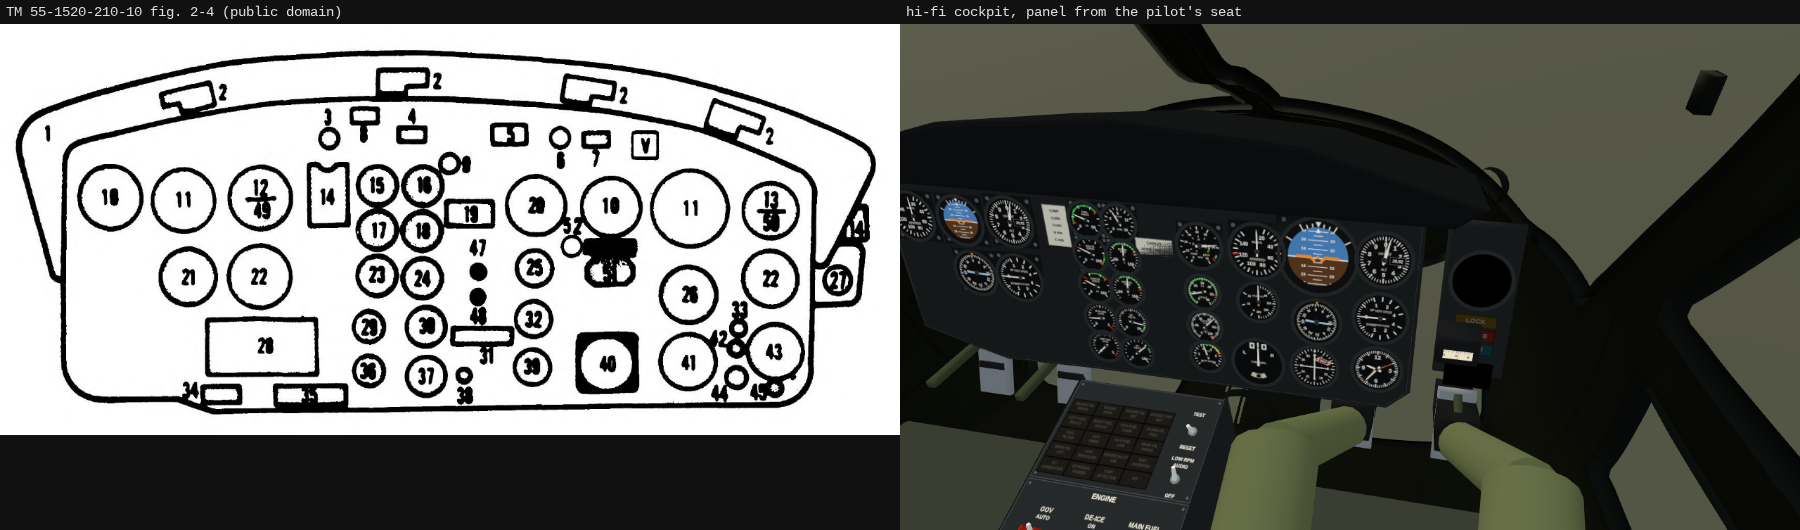
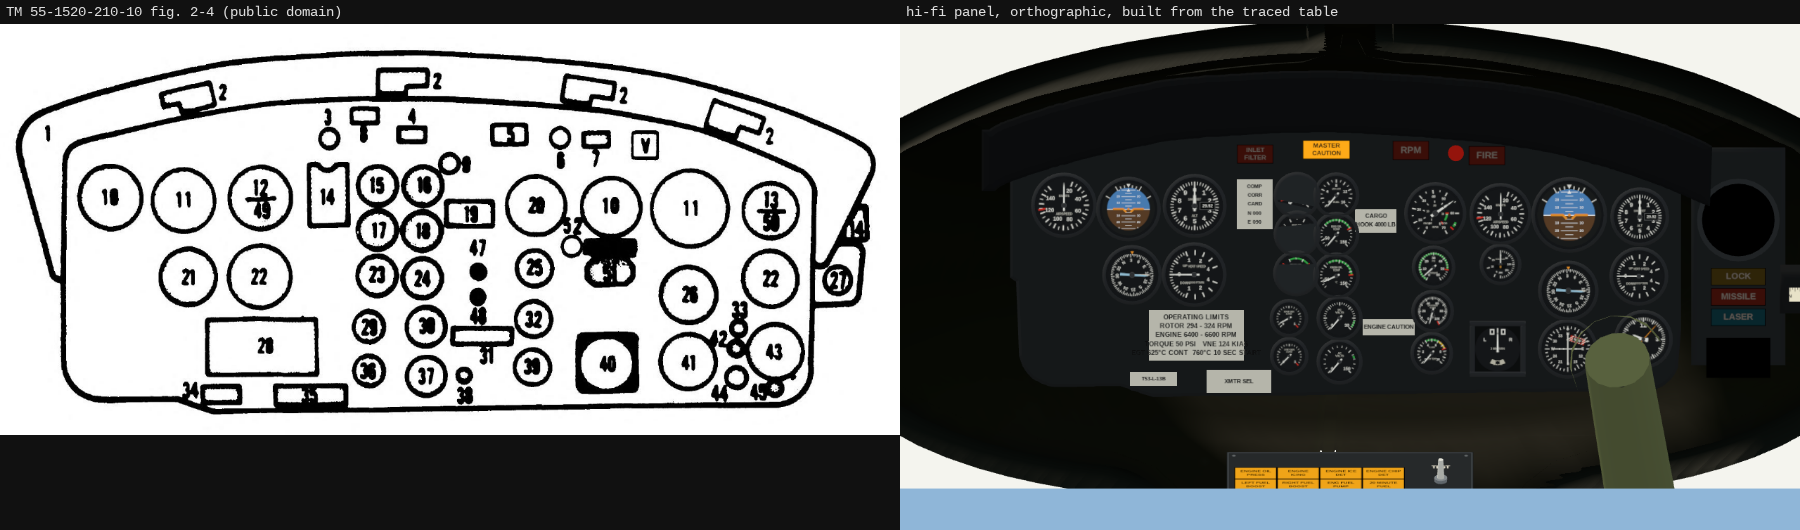
look-huey cockpit: instrument panel built from a traced table of TM -10 fig. 2-4 (tools/hueypanel.mjs -> uh1panel.json: 41 legend items fitted as rings / boxes on the page, scale from the 3ATI airspeed bezel, glare shield top edge per column); face extruded with a bezel hole per instrument, recessed

Changed region(s): [[0.4978, 0.0, 1.0, 1.0]]

diff --git a/game/js/uh1panel.js b/game/js/uh1panel.js
@@ -1,0 +1,2 @@
+// generated by tools/hueypanel.mjs from TM 55-1520-210-10 fig. 2-4 (public domain); see uh1panel.json
+export const UH1_PANEL = {"source":"TM 55-1520-210-10 (HQ DA, 1988, change 7) fig. 2-4 Instrument panel (typical), public domain; traced by tools/hueypanel.mjs","units":"panel millimetres: x right (pilot side), y up; origin on the panel centre line at the second instrument row","scale":{"pxPerMm":1.6126,"from":"item 10 copilot airspeed indicator = 3ATI, 79.4 mm bezel"},"items":[{"n":10,"name":"Airspeed indicator (copilot)","id":"asi2","shape":"r","x":-394.1,"y":70.1,"w":79.4,"h":79.4,"fit":1},{"n":11,"name":"Attitude indicator (copilot)","id":"adi2","shape":"r","x":-305.3,"y":65.1,"w":78.1,"h":78.1,"fit":1},{"n":12,"name":"Altimeter AAU-32/A (copilot)","id":"alt2","shape":"r","x":-214.1,"y":69.4,"w":76.9,"h":76.9,"fit":1},{"n":21,"name":"Radio compass indicator (copilot)","id":"rmi2","shape":"r","x":-300.2,"y":-25.7,"w":70.7,"h":70.7,"fit":1},{"n":22,"name":"Vertical velocity indicator (copilot)","id":"vsi2","shape":"r","x":-214.7,"y":-25.3,"w":78.1,"h":78.1,"fit":1},{"n":15,"name":"Fuel pressure","id":"fp","shape":"r","x":-72.9,"y":83.8,"w":52.1,"h":52.1,"fit":1},{"n":16,"name":"Fuel quantity","id":"fuel","shape":"r","x":-18.9,"y":83.8,"w":50.8,"h":50.8,"fit":1},{"n":17,"name":"Engine oil pressure","id":"eop","shape":"r","x":-72.9,"y":30.8,"w":52.1,"h":52.1,"fit":1},{"n":18,"name":"Engine oil temperature","id":"eot","shape":"r","x":-18.9,"y":29.6,"w":50.8,"h":50.8,"fit":1},{"n":23,"name":"Transmission oil pressure","id":"xop","shape":"r","x":-74.2,"y":-23.4,"w":50.8,"h":50.8,"fit":1},{"n":24,"name":"Transmission oil temperature","id":"xot","shape":"r","x":-18.9,"y":-27.1,"w":52.1,"h":52.1,"fit":1},{"n":29,"name":"Main generator loadmeter","id":"load","shape":"r","x":-84.1,"y":-85.3,"w":39.7,"h":39.7,"fit":1},{"n":30,"name":"DC voltmeter","id":"dcv","shape":"r","x":-14.4,"y":-85.3,"w":50.8,"h":50.8,"fit":1},{"n":36,"name":"Standby generator loadmeter","id":"sload","shape":"r","x":-83.7,"y":-137.7,"w":39.7,"h":39.7,"fit":1},{"n":37,"name":"AC voltmeter","id":"acv","shape":"r","x":-14.4,"y":-145.1,"w":50.8,"h":50.8,"fit":1},{"n":20,"name":"Dual tachometer","id":"tach","shape":"r","x":117.5,"y":59.2,"w":74.4,"h":74.4,"fit":1},{"n":25,"name":"Torquemeter","id":"tq","shape":"r","x":115.1,"y":-15.2,"w":47.1,"h":47.1,"fit":1},{"n":32,"name":"Gas producer tachometer","id":"n1","shape":"r","x":113.8,"y":-75.8,"w":45.9,"h":45.9,"fit":1},{"n":39,"name":"Exhaust gas temperature","id":"egt","shape":"r","x":112.6,"y":-133.6,"w":45.9,"h":45.9,"fit":1},{"n":10,"name":"Airspeed indicator (pilot)","id":"asi","shape":"r","x":207.5,"y":58.1,"w":74.4,"h":74.4,"fit":1},{"n":11,"name":"Attitude indicator (pilot)","id":"adi","shape":"r","x":302.1,"y":56.9,"w":94.3,"h":94.3,"fit":1},{"n":13,"name":"Altimeter AAU-31/A (pilot)","id":"alt","shape":"r","x":399.2,"y":54.4,"w":69.5,"h":69.5,"fit":1},{"n":26,"name":"Radio compass indicator (pilot)","id":"rmi","shape":"r","x":300.8,"y":-47.5,"w":71.9,"h":71.9,"fit":1},{"n":22,"name":"Vertical velocity indicator (pilot)","id":"vsi","shape":"r","x":398,"y":-27.5,"w":69.5,"h":69.5,"fit":1},{"n":40,"name":"Turn and slip indicator","id":"ts","shape":"s","x":203.4,"y":-127.6,"w":69.5,"h":67,"fit":1.03},{"n":41,"name":"Course deviation indicator","id":"cdi","shape":"r","x":300,"y":-127.6,"w":70.7,"h":70.7,"fit":1},{"n":43,"name":"Clock","id":"clk","shape":"r","x":404.2,"y":-114.4,"w":69.5,"h":69.5,"fit":1},{"n":51,"name":"DME indicator (V) - radar altimeter in the H","id":"ralt","shape":"b","x":207.4,"y":-11.1,"w":49.6,"h":44.6,"fit":1.02},{"n":28,"name":"Operating limits decal","id":null,"shape":"b","x":-211.6,"y":-108.9,"w":131.5,"h":69.5,"fit":1.05},{"n":14,"name":"Compass correction card holder","id":null,"shape":"b","x":-131.5,"y":71.5,"w":49.6,"h":69.5,"fit":0.98},{"n":19,"name":"Cargo caution decal","id":null,"shape":"b","x":35.5,"y":48.9,"w":57.1,"h":32.2,"fit":1.02},{"n":31,"name":"Engine caution decal","id":null,"shape":"b","x":53.4,"y":-97.6,"w":71.9,"h":22.3,"fit":1.02},{"n":34,"name":"Engine installation decal","id":null,"shape":"b","x":-270.9,"y":-168.9,"w":64.5,"h":19.8,"fit":1.02},{"n":35,"name":"Transmitter selector decal","id":null,"shape":"b","x":-152.7,"y":-172.4,"w":89.3,"h":32.2,"fit":1.03},{"n":3,"name":"Engine inlet filter clogged light","id":"L3","shape":"r","x":-130.7,"y":140.8,"w":26,"h":26,"fit":1},{"n":4,"name":"Master caution","id":"L4","shape":"b","x":-32.5,"y":146.9,"w":34.7,"h":17.4,"fit":1.01},{"n":5,"name":"RPM warning light","id":"L5","shape":"b","x":83.8,"y":145.9,"w":39.7,"h":24.8,"fit":1.02},{"n":6,"name":"Fire detector test switch","id":"L6","shape":"r","x":145.9,"y":142,"w":26,"h":26,"fit":1},{"n":7,"name":"Fire warning light","id":"L7","shape":"b","x":188.6,"y":138.7,"w":32.2,"h":19.8,"fit":1.01},{"n":27,"name":"Magnetic compass","id":"L27","shape":"r","x":470.1,"y":-37,"w":48.4,"h":48.4,"fit":0.89}],"outline":[{"x":-501.4,"shieldTop":154.1,"faceTop":100.7,"bottom":99.8},{"x":-497.3,"shieldTop":159,"faceTop":100.7,"bottom":88},{"x":-493.1,"shieldTop":164.6,"faceTop":152.2,"bottom":71.3},{"x":-489,"shieldTop":168.3,"faceTop":158.4,"bottom":56.4},{"x":-484.9,"shieldTop":170.8,"faceTop":161.5,"bottom":43.4},{"x":-480.8,"shieldTop":172.7,"faceTop":164.6,"bottom":29.1},{"x":-476.7,"shieldTop":175.2,"faceTop":167,"bottom":13},{"x":-472.6,"shieldTop":176.4,"faceTop":168.9,"bottom":-2.5},{"x":-468.5,"shieldTop":178.3,"faceTop":136.7,"bottom":-17.4},{"x":-464.4,"shieldTop":179.5,"faceTop":172,"bottom":-27.3},{"x":-460.3,"shieldTop":180.7,"faceTop":173.9,"bottom":-30.4},{"x":-456.2,"shieldTop":182.6,"faceTop":175.1,"bottom":-32.3},{"x":-452,"shieldTop":183.8,"faceTop":176.3,"bottom":-136.5},{"x":-447.9,"shieldTop":185.7,"faceTop":100.7,"bottom":-148.9},{"x":-443.8,"shieldTop":186.9,"faceTop":119.3,"bottom":-155.7},{"x":-439.7,"shieldTop":188.2,"faceTop":126.1,"bottom":-160.6},{"x":-435.6,"shieldTop":189.4,"faceTop":129.2,"bottom":-165},{"x":-431.5,"shieldTop":190.7,"faceTop":131.7,"bottom":-167.5},{"x":-427.4,"shieldTop":191.9,"faceTop":132.9,"bottom":-169.3},{"x":-423.3,"shieldTop":193.1,"faceTop":134.2,"bottom":-171.8},{"x":-419.2,"shieldTop":194.4,"faceTop":100.7,"bottom":-173},{"x":-415.1,"shieldTop":196.3,"faceTop":100.7,"bottom":-174.9},{"x":-411,"shieldTop":197.5,"faceTop":100.7,"bottom":-175.5},{"x":-406.8,"shieldTop":198.1,"faceTop":101.9,"bottom":-176.1},{"x":-402.7,"shieldTop":200,"faceTop":102.5,"bottom":-176.1},{"x":-398.6,"shieldTop":201.2,"faceTop":104.4,"bottom":-176.1},{"x":-394.5,"shieldTop":201.2,"faceTop":104.4,"bottom":-176.8},{"x":-390.4,"shieldTop":202.5,"faceTop":104.4,"bottom":-176.8},{"x":-386.3,"shieldTop":203.7,"faceTop":104.4,"bottom":-176.1},{"x":-382.2,"shieldTop":205.6,"faceTop":103.2,"bottom":-176.1},{"x":-378.1,"shieldTop":206.2,"faceTop":101.3,"bottom":-176.1},{"x":-374,"shieldTop":207.4,"faceTop":100.7,"bottom":-175.5},{"x":-369.9,"shieldTop":208.7,"faceTop":100.7,"bottom":-175.5},{"x":-365.7,"shieldTop":209.3,"faceTop":148.4,"bottom":-175.5},{"x":-361.6,"shieldTop":210.5,"faceTop":149.7,"bottom":-175.5},{"x":-357.5,"shieldTop":211.8,"faceTop":150.9,"bottom":-175.5},{"x":-353.4,"shieldTop":212.4,"faceTop":151.5,"bottom":-174.9},{"x":-349.3,"shieldTop":213.6,"faceTop":152.8,"bottom":-175.5},{"x":-345.2,"shieldTop":214.2,"faceTop":154,"bottom":-174.9},{"x":-341.1,"shieldTop":215.5,"faceTop":154.6,"bottom":-174.9},{"x":-337,"shieldTop":216.7,"faceTop":155.9,"bottom":-174.9},{"x":-332.9,"shieldTop":217.3,"faceTop":156.5,"bottom":-174.9},{"x":-328.8,"shieldTop":218,"faceTop":157.7,"bottom":-174.9},{"x":-324.7,"shieldTop":219.2,"faceTop":100.7,"bottom":-174.9},{"x":-320.5,"shieldTop":219.8,"faceTop":100.7,"bottom":-174.9},{"x":-316.4,"shieldTop":221.1,"faceTop":100.7,"bottom":-174.9},{"x":-312.3,"shieldTop":221.7,"faceTop":100.7,"bottom":-176.1},{"x":-308.2,"shieldTop":222.9,"faceTop":101.3,"bottom":-177.4},{"x":-304.1,"shieldTop":223.5,"faceTop":100.7,"bottom":-178.6},{"x":-300,"shieldTop":224.8,"faceTop":100.7,"bottom":-181.1},{"x":-295.9,"shieldTop":225.4,"faceTop":100.7,"bottom":-181.7},{"x":-291.8,"shieldTop":226,"faceTop":100.7,"bottom":-183},{"x":-287.7,"shieldTop":227.3,"faceTop":100.7,"bottom":-184.8},{"x":-283.6,"shieldTop":227.3,"faceTop":166.4,"bottom":-186.1},{"x":-279.4,"shieldTop":228.5,"faceTop":167,"bottom":-187.3},{"x":-275.3,"shieldTop":229.1,"faceTop":167.7,"bottom":-188.5},{"x":-271.2,"shieldTop":230.4,"faceTop":168.3,"bottom":-189.8},{"x":-267.1,"shieldTop":231.6,"faceTop":169.5,"bottom":-189.8},{"x":-263,"shieldTop":232.2,"faceTop":170.1,"bottom":-189.8},{"x":-258.9,"shieldTop":232.8,"faceTop":170.8,"bottom":-189.8},{"x":-254.8,"shieldTop":233.5,"faceTop":171.4,"bottom":-189.8},{"x":-250.7,"shieldTop":234.1,"faceTop":172,"bottom":-189.8},{"x":-246.6,"shieldTop":234.7,"faceTop":172.6,"bottom":-189.8},{"x":-242.5,"shieldTop":234.7,"faceTop":173.2,"bottom":-189.2},{"x":-238.4,"shieldTop":235.3,"faceTop":174.5,"bottom":-189.2},{"x":-234.2,"shieldTop":235.9,"faceTop":100.7,"bottom":-188.5},{"x":-230.1,"shieldTop":235.9,"faceTop":100.7,"bottom":-189.2},{"x":-226,"shieldTop":236.6,"faceTop":101.9,"bottom":-188.5},{"x":-221.9,"shieldTop":237.2,"faceTop":101.9,"bottom":-188.5},{"x":-217.8,"shieldTop":237.2,"faceTop":103.8,"bottom":-188.5},{"x":-213.7,"shieldTop":237.8,"faceTop":104.4,"bottom":-187.9},{"x":-209.6,"shieldTop":237.8,"faceTop":103.8,"bottom":-188.5},{"x":-205.5,"shieldTop":238.4,"faceTop":102.5,"bottom":-188.5},{"x":-201.4,"shieldTop":239,"faceTop":101.3,"bottom":-187.9},{"x":-197.3,"shieldTop":239.7,"faceTop":100.7,"bottom":-187.9},{"x":-193.1,"shieldTop":239.7,"faceTop":100.7,"bottom":-187.9},{"x":-189,"shieldTop":239.7,"faceTop":180.7,"bottom":-187.9},{"x":-184.9,"shieldTop":239.7,"faceTop":180.7,"bottom":-188.5},{"x":-180.8,"shieldTop":239.7,"faceTop":180.7,"bottom":-188.5},{"x":-176.7,"shieldTop":240.3,"faceTop":180.7,"bottom":-188.5},{"x":-172.6,"shieldTop":240.3,"faceTop":181.3,"bottom":-188.5},{"x":-168.5,"shieldTop":240.9,"faceTop":181.3,"bottom":-188.5},{"x":-164.4,"shieldTop":241.5,"faceTop":181.9,"bottom":-187.9},{"x":-160.3,"shieldTop":241.5,"faceTop":182.5,"bottom":-187.9},{"x":-156.2,"shieldTop":241.5,"faceTop":100.7,"bottom":-187.9},{"x":-152.1,"shieldTop":241.5,"faceTop":105.6,"bottom":-187.9},{"x":-147.9,"shieldTop":242.1,"faceTop":106.3,"bottom":-187.9},{"x":-143.8,"shieldTop":242.1,"faceTop":103.2,"bottom":-187.9},{"x":-139.7,"shieldTop":242.8,"faceTop":100.7,"bottom":-187.9},{"x":-135.6,"shieldTop":242.8,"faceTop":100.7,"bottom":-187.9},{"x":-131.5,"shieldTop":243.4,"faceTop":100.7,"bottom":-188.5},{"x":-127.4,"shieldTop":243.4,"faceTop":100.7,"bottom":-187.9},{"x":-123.3,"shieldTop":243.4,"faceTop":103.8,"bottom":-187.9},{"x":-119.2,"shieldTop":244,"faceTop":106.3,"bottom":-187.9},{"x":-115.1,"shieldTop":244,"faceTop":106.3,"bottom":-187.9},{"x":-111,"shieldTop":244.6,"faceTop":100.7,"bottom":-187.9},{"x":-106.8,"shieldTop":244.6,"faceTop":100.7,"bottom":-187.9},{"x":-102.7,"shieldTop":244.6,"faceTop":156.5,"bottom":-187.9},{"x":-98.6,"shieldTop":244.6,"faceTop":156.5,"bottom":-187.9},{"x":-94.5,"shieldTop":245.2,"faceTop":156.5,"bottom":-187.9},{"x":-90.4,"shieldTop":245.2,"faceTop":100.7,"bottom":-187.9},{"x":-86.3,"shieldTop":245.2,"faceTop":100.7,"bottom":-187.9},{"x":-82.2,"shieldTop":245.2,"faceTop":101.9,"bottom":-187.9},{"x":-78.1,"shieldTop":245.2,"faceTop":103.2,"bottom":-187.9},{"x":-74,"shieldTop":245.2,"faceTop":103.8,"bottom":-187.9},{"x":-69.9,"shieldTop":245.2,"faceTop":103.8,"bottom":-187.9},{"x":-65.8,"shieldTop":245.2,"faceTop":102.5,"bottom":-187.9},{"x":-61.6,"shieldTop":245.2,"faceTop":100.7,"bottom":-187.9},{"x":-57.5,"shieldTop":245.2,"faceTop":100.7,"bottom":-187.3},{"x":-53.4,"shieldTop":245.9,"faceTop":100.7,"bottom":-187.3},{"x":-49.3,"shieldTop":245.9,"faceTop":134.8,"bottom":-187.3},{"x":-45.2,"shieldTop":245.9,"faceTop":133.5,"bottom":-187.3},{"x":-41.1,"shieldTop":245.9,"faceTop":133.5,"bottom":-187.3},{"x":-37,"shieldTop":245.9,"faceTop":100.7,"bottom":-187.3},{"x":-32.9,"shieldTop":245.9,"faceTop":100.7,"bottom":-186.7},{"x":-28.8,"shieldTop":245.9,"faceTop":101.3,"bottom":-186.7},{"x":-24.7,"shieldTop":245.9,"faceTop":101.9,"bottom":-186.7},{"x":-20.5,"shieldTop":245.9,"faceTop":103.8,"bottom":-186.7},{"x":-16.4,"shieldTop":245.2,"faceTop":103.8,"bottom":-186.1},{"x":-12.3,"shieldTop":245.2,"faceTop":102.5,"bottom":-186.1},{"x":-8.2,"shieldTop":245.2,"faceTop":100.7,"bottom":-186.7},{"x":-4.1,"shieldTop":245.2,"faceTop":100.7,"bottom":-186.1},{"x":0,"shieldTop":245.2,"faceTop":100.7,"bottom":-186.1},{"x":4.1,"shieldTop":244.6,"faceTop":100.7,"bottom":-186.1},{"x":8.2,"shieldTop":244.6,"faceTop":100.7,"bottom":-186.7},{"x":12.3,"shieldTop":244.6,"faceTop":100.7,"bottom":-186.1},{"x":16.4,"shieldTop":244.6,"faceTop":100.7,"bottom":-186.1},{"x":20.5,"shieldTop":244,"faceTop":100.7,"bottom":-186.1},{"x":24.7,"shieldTop":243.4,"faceTop":101.9,"bottom":-186.1},{"x":28.8,"shieldTop":243.4,"faceTop":101.3,"bottom":-186.1},{"x":32.9,"shieldTop":243.4,"faceTop":100.7,"bottom":-186.1},{"x":37,"shieldTop":242.8,"faceTop":100.7,"bottom":-186.7},{"x":41.1,"shieldTop":242.8,"faceTop":182.5,"bottom":-186.1},{"x":45.2,"shieldTop":242.1,"faceTop":182.5,"bottom":-186.1},{"x":49.3,"shieldTop":242.1,"faceTop":181.9,"bottom":-186.1},{"x":53.4,"shieldTop":242.1,"faceTop":181.9,"bottom":-186.1},{"x":57.5,"shieldTop":241.5,"faceTop":181.3,"bottom":-186.1},{"x":61.6,"shieldTop":241.5,"faceTop":150.9,"bottom":-185.4},{"x":65.8,"shieldTop":241.5,"faceTop":131.1,"bottom":-185.4},{"x":69.9,"shieldTop":240.9,"faceTop":130.4,"bottom":-185.4},{"x":74,"shieldTop":240.9,"faceTop":130.4,"bottom":-185.4},{"x":78.1,"shieldTop":240.9,"faceTop":131.1,"bottom":-185.4},{"x":82.2,"shieldTop":240.3,"faceTop":130.4,"bottom":-185.4},{"x":86.3,"shieldTop":239.7,"faceTop":131.1,"bottom":-185.4},{"x":90.4,"shieldTop":239.7,"faceTop":130.4,"bottom":-185.4},{"x":94.5,"shieldTop":239.7,"faceTop":130.4,"bottom":-184.8},{"x":98.6,"shieldTop":239.7,"faceTop":131.1,"bottom":-184.8},{"x":102.7,"shieldTop":239,"faceTop":131.1,"bottom":-184.8},{"x":106.8,"shieldTop":238.4,"faceTop":131.7,"bottom":-184.8},{"x":111,"shieldTop":238.4,"faceTop":178.2,"bottom":-184.2},{"x":115.1,"shieldTop":237.8,"faceTop":178.2,"bottom":-184.8},{"x":119.2,"shieldTop":237.8,"faceTop":177.6,"bottom":-184.2},{"x":123.3,"shieldTop":237.8,"faceTop":177.6,"bottom":-184.2},{"x":127.4,"shieldTop":236.6,"faceTop":177,"bottom":-184.8},{"x":131.5,"shieldTop":235.9,"faceTop":177,"bottom":-184.2},{"x":135.6,"shieldTop":235.9,"faceTop":132.3,"bottom":-184.2},{"x":139.7,"shieldTop":235.9,"faceTop":128.6,"bottom":-184.2},{"x":143.8,"shieldTop":235.3,"faceTop":105,"bottom":-184.2},{"x":147.9,"shieldTop":234.7,"faceTop":103.8,"bottom":-184.2},{"x":152.1,"shieldTop":234.7,"faceTop":128.6,"bottom":-184.2},{"x":156.2,"shieldTop":234.7,"faceTop":131.7,"bottom":-184.2},{"x":160.3,"shieldTop":234.1,"faceTop":173.9,"bottom":-184.2},{"x":164.4,"shieldTop":233.5,"faceTop":173.2,"bottom":-184.2},{"x":168.5,"shieldTop":233.5,"faceTop":173.2,"bottom":-184.2},{"x":172.6,"shieldTop":232.8,"faceTop":129.8,"bottom":-184.2},{"x":176.7,"shieldTop":232.8,"faceTop":128,"bottom":-183.6},{"x":180.8,"shieldTop":232.2,"faceTop":128,"bottom":-183.6},{"x":184.9,"shieldTop":231.6,"faceTop":123,"bottom":-183.6},{"x":189,"shieldTop":231.6,"faceTop":107.5,"bottom":-228.9},{"x":193.1,"shieldTop":231,"faceTop":121.1,"bottom":-183.6},{"x":197.3,"shieldTop":230.4,"faceTop":128,"bottom":-183.6},{"x":201.4,"shieldTop":229.7,"faceTop":128.6,"bottom":-183.6},{"x":205.5,"shieldTop":229.1,"faceTop":129.2,"bottom":-183.6},{"x":209.6,"shieldTop":229.1,"faceTop":168.9,"bottom":-183},{"x":213.7,"shieldTop":227.9,"faceTop":167.7,"bottom":-183},{"x":217.8,"shieldTop":227.3,"faceTop":167,"bottom":-183},{"x":221.9,"shieldTop":227.3,"faceTop":166.4,"bottom":-182.3},{"x":226,"shieldTop":226,"faceTop":165.8,"bottom":-182.3},{"x":230.1,"shieldTop":226,"faceTop":165.2,"bottom":-182.3},{"x":234.2,"shieldTop":224.8,"faceTop":114.9,"bottom":-183},{"x":238.4,"shieldTop":224.2,"faceTop":114.9,"bottom":-183},{"x":242.5,"shieldTop":224.2,"faceTop":114.9,"bottom":-183},{"x":246.6,"shieldTop":223.5,"faceTop":114.9,"bottom":-183},{"x":250.7,"shieldTop":222.3,"faceTop":114.9,"bottom":-183},{"x":254.8,"shieldTop":221.7,"faceTop":114.9,"bottom":-183},{"x":258.9,"shieldTop":221.1,"faceTop":114.9,"bottom":-183},{"x":263,"shieldTop":220.4,"faceTop":114.9,"bottom":-182.3},{"x":267.1,"shieldTop":219.2,"faceTop":158.4,"bottom":-183},{"x":271.2,"shieldTop":218.6,"faceTop":157.1,"bottom":-182.3},{"x":275.3,"shieldTop":218,"faceTop":156.5,"bottom":-183},{"x":279.4,"shieldTop":217.3,"faceTop":155.9,"bottom":-182.3},{"x":283.6,"shieldTop":216.1,"faceTop":154.6,"bottom":-182.3},{"x":287.7,"shieldTop":215.5,"faceTop":100.7,"bottom":-182.3},{"x":291.8,"shieldTop":214.2,"faceTop":100.7,"bottom":-182.3},{"x":295.9,"shieldTop":213.6,"faceTop":100.7,"bottom":-182.3},{"x":300,"shieldTop":212.4,"faceTop":100.7,"bottom":-182.3},{"x":304.1,"shieldTop":211.1,"faceTop":100.7,"bottom":-182.3},{"x":308.2,"shieldTop":210.5,"faceTop":100.7,"bottom":-182.3},{"x":312.3,"shieldTop":209.3,"faceTop":100.7,"bottom":-182.3},{"x":316.4,"shieldTop":208,"faceTop":100.7,"bottom":-182.3},{"x":320.5,"shieldTop":206.8,"faceTop":100.7,"bottom":-182.3},{"x":324.7,"shieldTop":205.6,"faceTop":144.1,"bottom":-182.3},{"x":328.8,"shieldTop":204.9,"faceTop":142.2,"bottom":-182.3},{"x":332.9,"shieldTop":203.7,"faceTop":141,"bottom":-182.3},{"x":337,"shieldTop":201.8,"faceTop":139.1,"bottom":-183},{"x":341.1,"shieldTop":201.2,"faceTop":137.9,"bottom":-182.3},{"x":345.2,"shieldTop":200.6,"faceTop":136,"bottom":-182.3},{"x":349.3,"shieldTop":198.7,"faceTop":134.8,"bottom":-182.3},{"x":353.4,"shieldTop":198.1,"faceTop":133.5,"bottom":-182.3},{"x":357.5,"shieldTop":196.9,"faceTop":131.7,"bottom":-182.3},{"x":361.6,"shieldTop":195,"faceTop":129.8,"bottom":-182.3},{"x":365.7,"shieldTop":194.4,"faceTop":128,"bottom":-182.3},{"x":369.9,"shieldTop":192.5,"faceTop":126.7,"bottom":-182.3},{"x":374,"shieldTop":191.3,"faceTop":124.9,"bottom":-182.3},{"x":378.1,"shieldTop":190,"faceTop":123,"bottom":-182.3},{"x":382.2,"shieldTop":188.8,"faceTop":121.1,"bottom":-182.3},{"x":386.3,"shieldTop":187.6,"faceTop":119.9,"bottom":-182.3},{"x":390.4,"shieldTop":186.3,"faceTop":118.7,"bottom":-182.3},{"x":394.5,"shieldTop":185.1,"faceTop":116.8,"bottom":-182.3},{"x":398.6,"shieldTop":183.2,"faceTop":114.9,"bottom":-182.3},{"x":402.7,"shieldTop":182,"faceTop":113.1,"bottom":-182.3},{"x":406.8,"shieldTop":180.1,"faceTop":111.2,"bottom":-182.3},{"x":411,"shieldTop":178.9,"faceTop":109.4,"bottom":-181.7},{"x":415.1,"shieldTop":177.6,"faceTop":107.5,"bottom":-180.5},{"x":419.2,"shieldTop":175.8,"faceTop":105.6,"bottom":-179.9},{"x":423.3,"shieldTop":174.5,"faceTop":103.8,"bottom":-178},{"x":427.4,"shieldTop":172.7,"faceTop":101.3,"bottom":-176.1},{"x":431.5,"shieldTop":172.1,"faceTop":100.7,"bottom":-173.7},{"x":435.6,"shieldTop":169.6,"faceTop":100.7,"bottom":-169.9},{"x":439.7,"shieldTop":167.7,"faceTop":100.7,"bottom":-166.2},{"x":443.8,"shieldTop":166.5,"faceTop":160.2,"bottom":-160.6},{"x":447.9,"shieldTop":164.6,"faceTop":158.4,"bottom":-152.6},{"x":452,"shieldTop":162.8,"faceTop":156.5,"bottom":-101.7},{"x":456.2,"shieldTop":160.9,"faceTop":154.6,"bottom":-62.7},{"x":460.3,"shieldTop":159.7,"faceTop":153.4,"bottom":-62},{"x":464.4,"shieldTop":157.8,"faceTop":152.2,"bottom":-62},{"x":468.5,"shieldTop":155.9,"faceTop":150.3,"bottom":-62},{"x":472.6,"shieldTop":154.1,"faceTop":148.4,"bottom":-62},{"x":476.7,"shieldTop":152.2,"faceTop":146.6,"bottom":-62},{"x":480.8,"shieldTop":150.4,"faceTop":144.7,"bottom":-61.4},{"x":484.9,"shieldTop":148.5,"faceTop":142.9,"bottom":-61.4},{"x":489,"shieldTop":146,"faceTop":140.4,"bottom":-60.8},{"x":493.1,"shieldTop":144.2,"faceTop":137.9,"bottom":-61.4},{"x":497.3,"shieldTop":142.3,"faceTop":136,"bottom":-60.2},{"x":501.4,"shieldTop":140.4,"faceTop":133.5,"bottom":-57.7},{"x":505.5,"shieldTop":138.6,"faceTop":131.7,"bottom":-54},{"x":509.6,"shieldTop":135.5,"faceTop":128.6,"bottom":-34.1},{"x":513.7,"shieldTop":133,"faceTop":124.9,"bottom":16.7},{"x":517.8,"shieldTop":129.3,"faceTop":119.3,"bottom":19.8},{"x":521.9,"shieldTop":121.8,"faceTop":100.7,"bottom":94.2}]};

diff --git a/game/js/hueycockpit.js b/game/js/hueycockpit.js
@@ -16,6 +16,7 @@ import { CAPTIONS } from './heli.js';
 import { RKS } from './renderkit/gamemats.js';   // ngc/look-huey: with RenderKit surface on, the hi-fi airframe (hueyhifi.js) provides the glazing and walls
 import { HUEY_SKIN } from './hueyhifi.js';
 import { rbox } from './hueygeo.js';
+import { UH1_PANEL } from './uh1panel.js';   // traced TM 55-1520-210-10 fig. 2-4 (tools/hueypanel.mjs)
 import { drawRwr } from './units/defence/cm.js';   // ngc/cmpolish: the radar warning scope   // circular, but only read inside buildHueyCockpit (after both modules ran)
 
 export const HUEY_EYE = new THREE.Vector3(0.55, 0.16, -1.95), HUEY_EYE_PITCH = -0.16;
@@ -179,14 +180,19 @@ export function buildHueyCockpit({ classic = false } = {}) {
   // (typical)" (1988, change 7; archive.org tm-55-1520-210-10-operators-manual-uh-1-h-v-february-1988 page n68), read at
   // 800 px/m on the page (the 3 in instruments come out ~95 mm across): copilot flight group left, engine and systems
   // column in the centre, the pilot's tachometer / torque / gas producer / EGT column and flight group on the right
-  const TMP = (px, py) => [(px - 806) / 800, (470 - py) / 800];
-  const PANEL_OUT = [[370, 338], [1245, 338], [1245, 622], [1214, 652], [700, 652], [532, 657], [470, 640], [375, 612]].map(([a, b]) => TMP(a, b));
+  // the traced panel table: panel millimetres -> panel metres; item lookup by fig. 2-4 id
+  const PT = UH1_PANEL, PI_ = id => PT.items.find(i => i.id === id), PM_ = it => [it.x / 1000, it.y / 1000];
+  const PTO = PT.outline, med = (k, i) => { const v = []; for (let j = Math.max(0, i - 2); j <= Math.min(PTO.length - 1, i + 2); j++) v.push(PTO[j][k]); v.sort((p, q) => p - q); return v[v.length >> 1]; };
+  // the face: the glare shield's traced top edge less its 60 mm depth (the figure's inner line), down to the traced
+  // bottom edge, between the face's side edges (x -468 .. 452 mm)
+  const faceCols = PTO.map((o, i) => ({ x: o.x / 1000, top: (med('shieldTop', i) - 60) / 1000, bot: med('bottom', i) / 1000, sh: med('shieldTop', i) / 1000 }));
+  const fc = faceCols.filter(c => c.x >= -0.468 && c.x <= 0.452);
+  const PANEL_OUT = [...fc.map(c => [c.x, c.top]), ...fc.slice().reverse().map(c => [c.x, Math.min(c.bot, c.top - 0.05)])];
   if (HF) {
-    const sh = new THREE.Shape(PANEL_OUT.map(([x, y]) => new THREE.Vector2(x, y)));
-    const pg = new THREE.ExtrudeGeometry(sh, { depth: 0.035, bevelEnabled: true, bevelThickness: 0.006, bevelSize: 0.008, bevelSegments: 2, curveSegments: 6 }).translate(0, 0, -0.041);
-    const o = new THREE.Mesh(pg, panelM); P.add(o);
+    // (the face itself is built once the instrument table is known: buildFace() below cuts a hole per instrument)
     // the glare shield's lip over the panel top, curved like the figure's outline
-    const lip = new THREE.Shape([[-0.6, 0.165], [0.6, 0.165], [0.64, 0.19], [0.34, 0.265], [0.0, 0.29], [-0.34, 0.265], [-0.64, 0.19]].map(([x, y]) => new THREE.Vector2(x, y)));
+const sc = faceCols.filter(c => c.x >= -0.5 && c.x <= 0.49);   // the glare shield: its traced top edge over the face's top
+    const lip = new THREE.Shape([...sc.map(c => new THREE.Vector2(c.x, c.sh)), ...sc.slice().reverse().map(c => new THREE.Vector2(c.x, Math.max(c.top - 0.005, c.sh - 0.075)))]);
     P.add(new THREE.Mesh(new THREE.ExtrudeGeometry(lip, { depth: 0.36, bevelEnabled: true, bevelThickness: 0.01, bevelSize: 0.01, bevelSegments: 2 }).translate(0, 0, -0.33), glareM));   // the glare shield hood, back to the windscreen
   } else { box(2.22, 0.48, 0.04, panelM, 0, 0.03, -0.025, P); box(0.56, 0.2, 0.04, panelM, 0.035, -0.31, -0.025, P); }
   // gauge layout (panel coords, diameter)
@@ -200,37 +206,33 @@ export function buildHueyCockpit({ classic = false } = {}) {
     cdi2: [-0.71, -0.125, 0.095], clk2: [-0.40, -0.125, 0.075],
   };
   if (HF) {   // fig. 2-4 item numbers in the comments
-    const T = (px, py, dpx) => [...TMP(px, py), dpx / 800];
-    Object.assign(GL, {
-      asi2: T(420, 405, 76), adi2: T(510, 405, 76), alt2: T(600, 400, 76), rmi2: T(515, 495, 72), vsi2: T(597, 495, 76),   // 10 11 12 21 22 (copilot)
-      fp: T(735, 385, 52), fuel: T(790, 385, 52), eop: T(735, 440, 52), eot: T(790, 440, 52),                            // 15 16 17 18
-      xop: T(735, 495, 52), xot: T(790, 495, 52), load: T(735, 553, 52), dcv: T(790, 553, 52), sload: T(735, 605, 52), acv: T(793, 610, 52),   // 23 24 29 30 36 37
-      tach: T(918, 410, 66), tq: T(918, 485, 52), n1: T(918, 545, 52), egt: T(918, 600, 52),                              // 20 25 32 39
-      asi: T(1008, 410, 80), adi: T(1100, 410, 112), alt: T(1197, 405, 76), rmi: T(1100, 515, 70), vsi: T(1197, 497, 76), // 10 11 13 26 22 (pilot)
-      ts: T(1005, 600, 80), cdi: T(1098, 595, 70), clk: T(1197, 585, 72),                                                  // 40 41 43
-      ralt: T(1008, 492, 60),   // radar altimeter height indicator in the panel slot the V model gives the DME (51): position approximate
-    });
-    for (const k of ['ts2', 'cdi2', 'clk2']) delete GL[k];   // fig. 2-4: the copilot has no turn and slip, course indicator or clock
+    for (const it of PT.items) if (it.id && GL[it.id]) GL[it.id] = [it.x / 1000, it.y / 1000, Math.min(it.w, it.h) / 1000 * 0.94];   // the face inside the traced bezel ring
+    for (const k of ['ts2', 'cdi2', 'clk2']) delete GL[k];
+    // the panel face: the traced outline with a bezel hole per instrument (round; the turn and slip square), extruded
+    const sh = new THREE.Shape(PANEL_OUT.map(([x, y]) => new THREE.Vector2(x, y)));
+    for (const k in GL) { const [x, y, d] = GL[k], r = d / 2 + 0.004, hp = new THREE.Path(); if (k === 'ts') { hp.moveTo(x - r, y - r); hp.lineTo(x + r, y - r); hp.lineTo(x + r, y + r); hp.lineTo(x - r, y + r); hp.closePath(); } else hp.absarc(x, y, r, 0, Math.PI * 2, true); sh.holes.push(hp); }
+    P.add(new THREE.Mesh(new THREE.ExtrudeGeometry(sh, { depth: 0.03, bevelEnabled: true, bevelThickness: 0.004, bevelSize: 0.004, bevelSegments: 1, curveSegments: 10 }).translate(0, 0, -0.034), panelM));
+    P.add(new THREE.Mesh(new THREE.ShapeGeometry(new THREE.Shape(PANEL_OUT.map(([x, y]) => new THREE.Vector2(x, y)))).translate(0, 0, -0.03), M(0x0c0d0e)));   // the instrument cases' dark back   // fig. 2-4: the copilot has no turn and slip, course indicator or clock
   }
   // static panel art: flat black with the sub-panel outlines, square bezels and screws, placards
   const art = canvasTex(1920, 700), PXM = 1000, ax = x => (x + 0.96) * PXM, ay = y => (0.27 - y) * PXM;
   {
     const c = art.ctx; c.clearRect(0, 0, 1920, 700);
-    if (HF) { c.fillStyle = '#1b1d1e'; c.beginPath(); PANEL_OUT.forEach(([x, y], i) => i ? c.lineTo(ax(x), ay(y)) : c.moveTo(ax(x), ay(y))); c.closePath(); c.fill(); c.strokeStyle = '#33373a'; c.lineWidth = 3; c.stroke(); }
+    if (HF) { /* the face is geometry (the extruded outline with bezel holes): the art only carries decals */ }
     else {
     c.fillStyle = '#1b1d1e'; c.fillRect(0, 0, 1920, 480); c.fillRect(ax(-0.245), 0, 560, 700);
     c.strokeStyle = '#33373a'; c.lineWidth = 3;
     for (const [x0, x1] of [[-0.95, -0.3], [-0.245, 0.315], [0.33, 0.95]]) { c.strokeRect(ax(x0), ay(0.262), (x1 - x0) * PXM, (x0 === -0.245 ? 0.68 : 0.47) * PXM); }
     }
-    for (const k in GL) {
+    if (!HF) for (const k in GL) {
       const [x, y, d] = GL[k], s = d * 1.12 * PXM; c.fillStyle = '#111213'; c.fillRect(ax(x) - s / 2, ay(y) - s / 2, s, s);
       c.fillStyle = '#5a5e60'; for (const [dx, dy] of [[-1, -1], [1, -1], [-1, 1], [1, 1]]) { c.beginPath(); c.arc(ax(x) + dx * s * 0.41, ay(y) + dy * s * 0.41, 4, 0, TAU); c.fill(); }
     }
     const lab = (t, x, y, s = 13, col = '#e0ddd0') => txt(c, t, ax(x), ay(y), col, s);
     if (HF) {   // decals in their fig. 2-4 places: 28 operating limits, 19 cargo caution, 31 engine caution, 14 compass card
-      const decal = (px, py, wpx, hpx, lines, s = 10) => { const [x, y] = TMP(px, py), w = wpx / 800 * PXM, h = hpx / 800 * PXM; c.fillStyle = '#d8d4c4'; c.fillRect(ax(x) - w / 2, ay(y) - h / 2, w, h); lines.forEach((t, i) => txt(c, t, ax(x), ay(y) - h / 2 + (i + 0.8) * h / (lines.length + 0.6), '#151515', s)); };
-      decal(600, 575, 130, 62, ['OPERATING LIMITS', 'ROTOR 294 - 324 RPM', 'ENGINE 6400 - 6600 RPM', 'TORQUE 50 PSI   VNE 124 KIAS', 'EGT 625°C CONT  760°C 10 SEC START'], 9);
-      decal(842, 420, 60, 26, ['CARGO', 'HOOK 4000 LB'], 8); decal(857, 565, 62, 18, ['ENGINE CAUTION'], 8); decal(680, 400, 40, 66, ['COMP', 'CORR', 'CARD', 'N 000', 'E 090'], 7);
+      const decal = (n, lines, s = 10) => { const it = PT.items.find(i => i.n === n && !i.id), x = it.x / 1000, y = it.y / 1000, w = it.w / 1000 * PXM, h = it.h / 1000 * PXM; c.fillStyle = '#d8d4c4'; c.fillRect(ax(x) - w / 2, ay(y) - h / 2, w, h); lines.forEach((t, i) => txt(c, t, ax(x), ay(y) - h / 2 + (i + 0.8) * h / (lines.length + 0.6), '#151515', s)); };
+      decal(28, ['OPERATING LIMITS', 'ROTOR 294 - 324 RPM', 'ENGINE 6400 - 6600 RPM', 'TORQUE 50 PSI   VNE 124 KIAS', 'EGT 625°C CONT  760°C 10 SEC START'], 9);
+      decal(19, ['CARGO', 'HOOK 4000 LB'], 8); decal(31, ['ENGINE CAUTION'], 8); decal(14, ['COMP', 'CORR', 'CARD', 'N 000', 'E 090'], 7); decal(34, ['T53-L-13B'], 7); decal(35, ['XMTR SEL'], 8);
     } else {
     lab('PILOT', 0.86, 0.24, 12, '#8a8d88'); lab('COPILOT', -0.86, 0.24, 12, '#8a8d88');
     lab('ROTOR RPM 294 - 324', 0.04, -0.15, 12); lab('ENGINE RPM 6400 - 6600', 0.04, -0.17, 12); lab('VNE 124 KIAS', 0.04, -0.2, 12);
@@ -240,14 +242,19 @@ export function buildHueyCockpit({ classic = false } = {}) {
     }
     art.tex.needsUpdate = true;
   }
-  plane(1.92, 0.7, new THREE.MeshLambertMaterial({ map: art.tex, emissive: 0xffffff, emissiveMap: art.tex, emissiveIntensity: 0.55, alphaTest: 0.5 }), 0, -0.08, 0, P);
+  plane(1.92, 0.7, new THREE.MeshLambertMaterial({ map: art.tex, emissive: 0xffffff, emissiveMap: art.tex, emissiveIntensity: 0.55, alphaTest: 0.5 }), 0, -0.08, HF ? 0.001 : 0, P);
   // gauges: a canvas face on a disc, a bezel ring; faces with a static part are pre-rendered into bg
   const gauges = [];
   const ringM = M(0x2a2c2e);
   function gauge(key, size, face, dyn) {
-    const [x, y, d] = GL[key], t = canvasTex(size, size), o = new THREE.Mesh(new THREE.CircleGeometry(d / 2, 36), new THREE.MeshBasicMaterial({ map: t.tex, toneMapped: false, color: 0xe2e2e2 }));
-    o.position.set(x, y, 0.004); P.add(o);
-    const ring = new THREE.Mesh(new THREE.RingGeometry(d / 2, d / 2 + 0.007, 36), ringM); ring.position.set(x, y, 0.006); P.add(ring);
+    const [x, y, d] = GL[key], t = canvasTex(size, size), sq = HF && key === 'ts';
+    const o = new THREE.Mesh(sq ? new THREE.PlaneGeometry(d * 0.98, d * 0.98) : new THREE.CircleGeometry(d / 2, 36), new THREE.MeshBasicMaterial({ map: t.tex, toneMapped: false, color: 0xe2e2e2 }));
+    o.position.set(x, y, HF ? -0.012 : 0.004); P.add(o);   // hi-fi: recessed in its hole, behind the bezel
+    if (HF) {   // a bezel: a short tube round the hole (square for the turn and slip), with a glass cover catching light
+      if (sq) { for (const [w, h, dx, dy] of [[d + 0.014, 0.007, 0, d / 2 + 0.0035], [d + 0.014, 0.007, 0, -d / 2 - 0.0035], [0.007, d, d / 2 + 0.0035, 0], [0.007, d, -d / 2 - 0.0035, 0]]) box(w, h, 0.02, ringM, x + dx, y + dy, -0.004, P); }
+      else { const bz = new THREE.Mesh(new THREE.LatheGeometry([new THREE.Vector2(d / 2 + 0.004, -0.016), new THREE.Vector2(d / 2 + 0.004, 0.002), new THREE.Vector2(d / 2 + 0.008, 0.006), new THREE.Vector2(d / 2 + 0.003, 0.007)], 36).rotateX(Math.PI / 2), ringM); bz.position.set(x, y, 0); P.add(bz); }
+      const gl = new THREE.Mesh(sq ? new THREE.PlaneGeometry(d, d) : new THREE.CircleGeometry(d / 2 + 0.003, 36), new THREE.MeshBasicMaterial({ color: 0x9fb4c0, transparent: true, opacity: 0.07, depthWrite: false })); gl.position.set(x, y, 0.004); gl.renderOrder = 4; P.add(gl);
+    } else { const ring = new THREE.Mesh(new THREE.RingGeometry(d / 2, d / 2 + 0.007, 36), ringM); ring.position.set(x, y, 0.006); P.add(ring); }
     let bg = null; if (face) { bg = document.createElement('canvas'); bg.width = bg.height = size; face(bg.getContext('2d'), size); }
     const G = { key, W: size, ...t, bg, dyn, i: gauges.length }; gauges.push(G); return G;
   }
@@ -261,7 +268,7 @@ export function buildHueyCockpit({ classic = false } = {}) {
     o.userData = { tOn, tOff, on: false }; return o;
   }
   const setLamp = (o, v) => { v = !!v; if (o.userData.on !== v) { o.userData.on = v; o.material.map = v ? o.userData.tOn : o.userData.tOff; } };
-  const LP = HF ? { fire: TMP(990, 333), rpm: TMP(890, 327), mc: TMP(770, 325), rpm2: TMP(680, 333), fireBtn: TMP(948, 330), rwr: [0.66, 0.06] } : { fire: [-0.02, 0.232], rpm: [0.47, 0.232], mc: [0.645, 0.232], rpm2: [-0.555, 0.232], fireBtn: [0.06, 0.232], rwr: [0.865, 0.13] };
+  const LP = HF ? { fire: PM_(PI_('L7')), rpm: PM_(PI_('L5')), mc: PM_(PI_('L4')), rpm2: PM_(PI_('L3')), fireBtn: PM_(PI_('L6')), rwr: [0.535, 0.05] } : { fire: [-0.02, 0.232], rpm: [0.47, 0.232], mc: [0.645, 0.232], rpm2: [-0.555, 0.232], fireBtn: [0.06, 0.232], rwr: [0.865, 0.13] };
   const fireL = lamp(P, 0.05, 0.026, ...LP.fire, 0.005, 'FIRE', '#ff2a14', '#3a0e08');
   const rpmL = lamp(P, 0.05, 0.026, ...LP.rpm, 0.005, 'RPM', '#ff2a14', '#3a0e08');
   const mcL = lamp(P, 0.065, 0.026, ...LP.mc, 0.005, 'MASTER|CAUTION', '#ffaa18', '#2e2408');
@@ -639,7 +646,7 @@ export function buildHueyCockpit({ classic = false } = {}) {
   let lastS = null;
   const flip = (id, on) => { const p = sw[id]; if (p) p.rotation.x = -(on ? 0.5 : -0.5) * p.userData.sign; };
   return {
-    group: g, hitBoxes: hits, cmLamps: { lock: lockL, msl: mslL, laser: lasL },   // CM: for tests
+    group: g, panel: P, hitBoxes: hits, cmLamps: { lock: lockL, msl: mslL, laser: lasL },   // CM: for tests
     canvases: () => [...gauges.map(G => G.cv), cautT.cv, pedA.cv, pedB.cv, ohR.cv],   // canvases: for test contact sheets
     labelOf(id) {
       const s = lastS && lastS.sw; if (!s || !LBL[id]) return LBL[id] || id;

diff --git a/game/dev/huey-preview.js b/game/dev/huey-preview.js
@@ -102,7 +102,20 @@ if (REFV) {
   if (Q.get('sil') === '1') { const sm = new THREE.MeshBasicMaterial({ color: 0x5a6a90, transparent: true, opacity: 0.55, depthWrite: false }); huey.group.traverse(o => { if (o.isMesh) o.material = sm; }); }
   if (Q.get('ui') !== '0') document.getElementById('info').textContent = 'UH-1H vs TM 55-1520-210-10 ' + REF + ' view (red = drawing). ?ref=side|front|top &sil=1 &refa=0.85';
 }
-function size() { let w = innerWidth, h = innerHeight; if (ortho) { const a = (ortho.right - ortho.left) / (ortho.top - ortho.bottom); if (w / h > a) w = Math.round(h * a); else h = Math.round(w / a); } renderer.setSize(w, h); camera.aspect = w / h; camera.updateProjectionMatrix(); }
+// &panel=1 (with ck=1): straight-on orthographic view of the instrument panel over TM -10 fig. 2-4 (red), at the traced
+// scale (tools/hueypanel.mjs: 1.613 px/mm on the 2563 px page, panel origin at page px 1335.4, 778.7)
+let panelCam = null;
+if (Q.get('panel') === '1' && cockpit) {
+  const Pn = cockpit.panel, k = 1613, W = 2563, H = 3313, cxm = (W / 2 - 1335.4) / k, cym = (778.7 - H / 2) / k;
+  const tex = new THREE.TextureLoader().load('./ref/uh1-tm-fig2-4.jpg'); tex.colorSpace = THREE.SRGBColorSpace;
+  const mat = new THREE.ShaderMaterial({ uniforms: { map: { value: tex }, k: { value: Number(Q.get('refa') || 0.85) } }, transparent: true, depthTest: false, depthWrite: false,
+    vertexShader: 'varying vec2 vUv; void main(){ vUv = uv; gl_Position = projectionMatrix * modelViewMatrix * vec4(position, 1.0); }',
+    fragmentShader: 'uniform sampler2D map; uniform float k; varying vec2 vUv; void main(){ float l = dot(texture2D(map, vUv).rgb, vec3(0.333)); gl_FragColor = vec4(0.95, 0.1, 0.1, (1.0 - smoothstep(0.35, 0.75, l)) * k); }' });
+  const pl = new THREE.Mesh(new THREE.PlaneGeometry(W / k, H / k), mat); pl.position.set(cxm, cym, 0.05); pl.renderOrder = 99; Pn.add(pl);
+  panelCam = new THREE.OrthographicCamera(-0.62, 0.62, 0.32, -0.32, 0.01, 2); Pn.add(panelCam); panelCam.position.set(0, -0.0, 0.3);
+  scene.background = new THREE.Color(0xf4f4ee);
+}
+function size() { let w = innerWidth, h = innerHeight; if (panelCam) { h = Math.round(w * 0.64 / 1.24); } if (ortho) { const a = (ortho.right - ortho.left) / (ortho.top - ortho.bottom); if (w / h > a) w = Math.round(h * a); else h = Math.round(w / a); } renderer.setSize(w, h); camera.aspect = w / h; camera.updateProjectionMatrix(); }
 addEventListener('resize', size); size();
 
 // a dummy panel snapshot for the cockpit (hot, at flight idle on the ground)
@@ -122,7 +135,7 @@ function place() {
 function step(dt) {
   time += dt; huey.animate(S, dt, time, !!cockpit);
   if (cockpit) cockpit.update({}, dt, PANEL);
-  place(); renderer.render(scene, ortho || camera);
+  place(); renderer.render(scene, panelCam || ortho || camera);
 }
 function frame(now) { const dt = Math.min(0.05, (now - last) / 1000); last = now; step(dt); requestAnimationFrame(frame); }
 requestAnimationFrame(frame);
